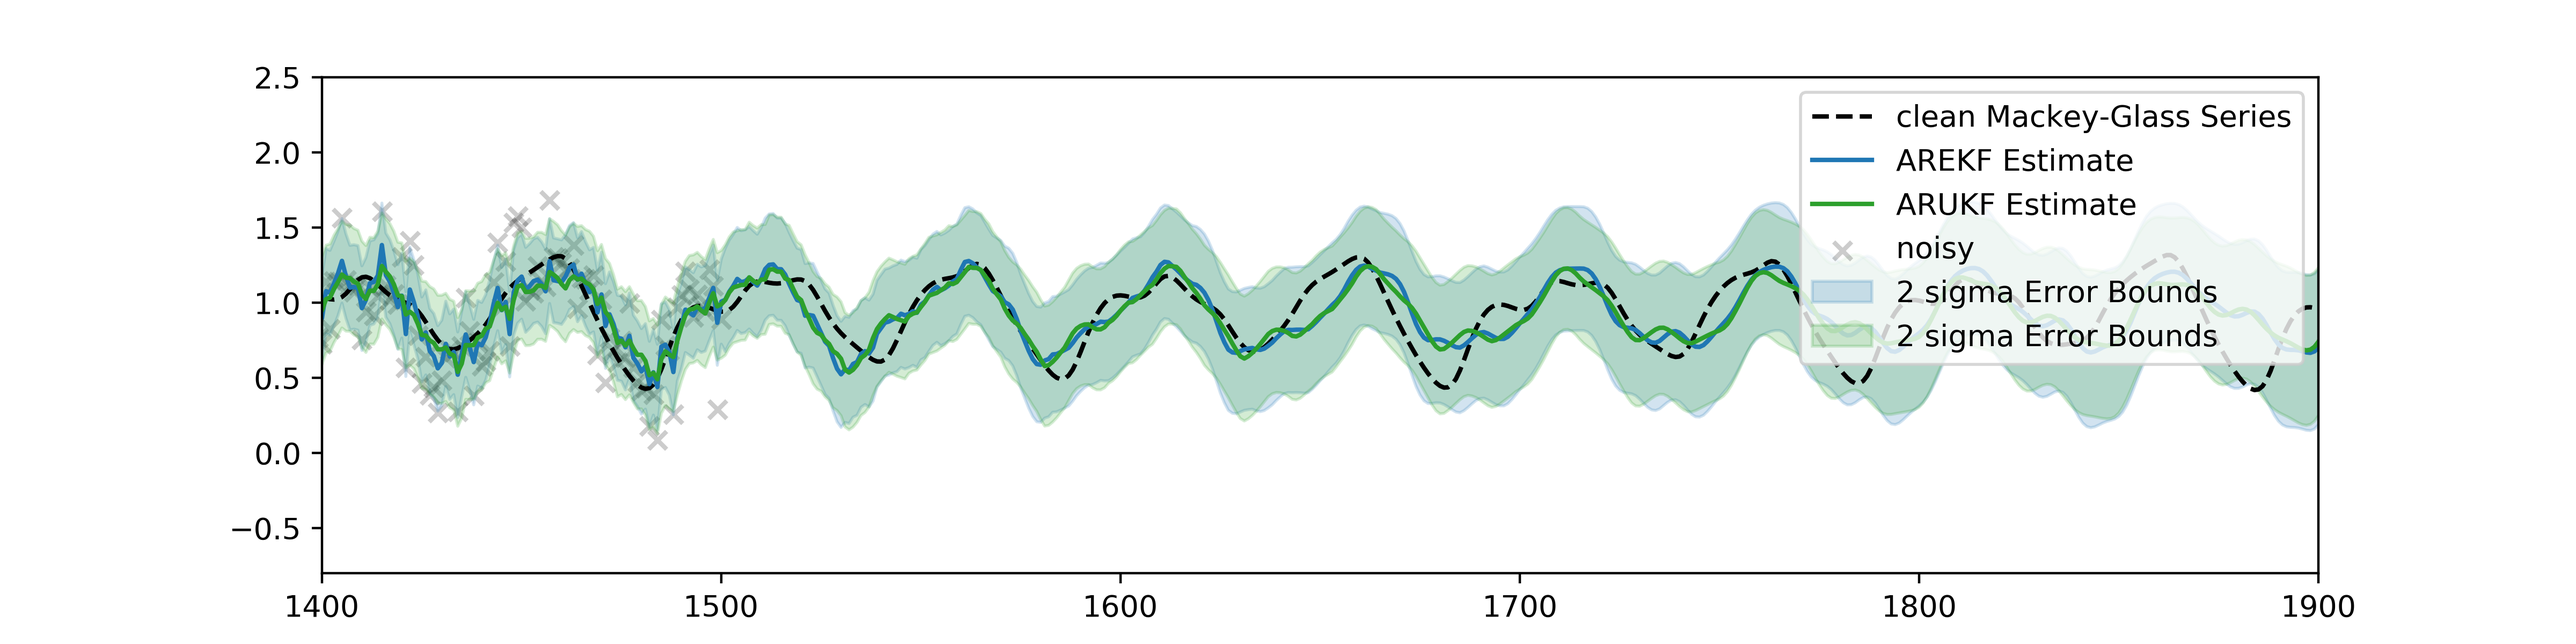
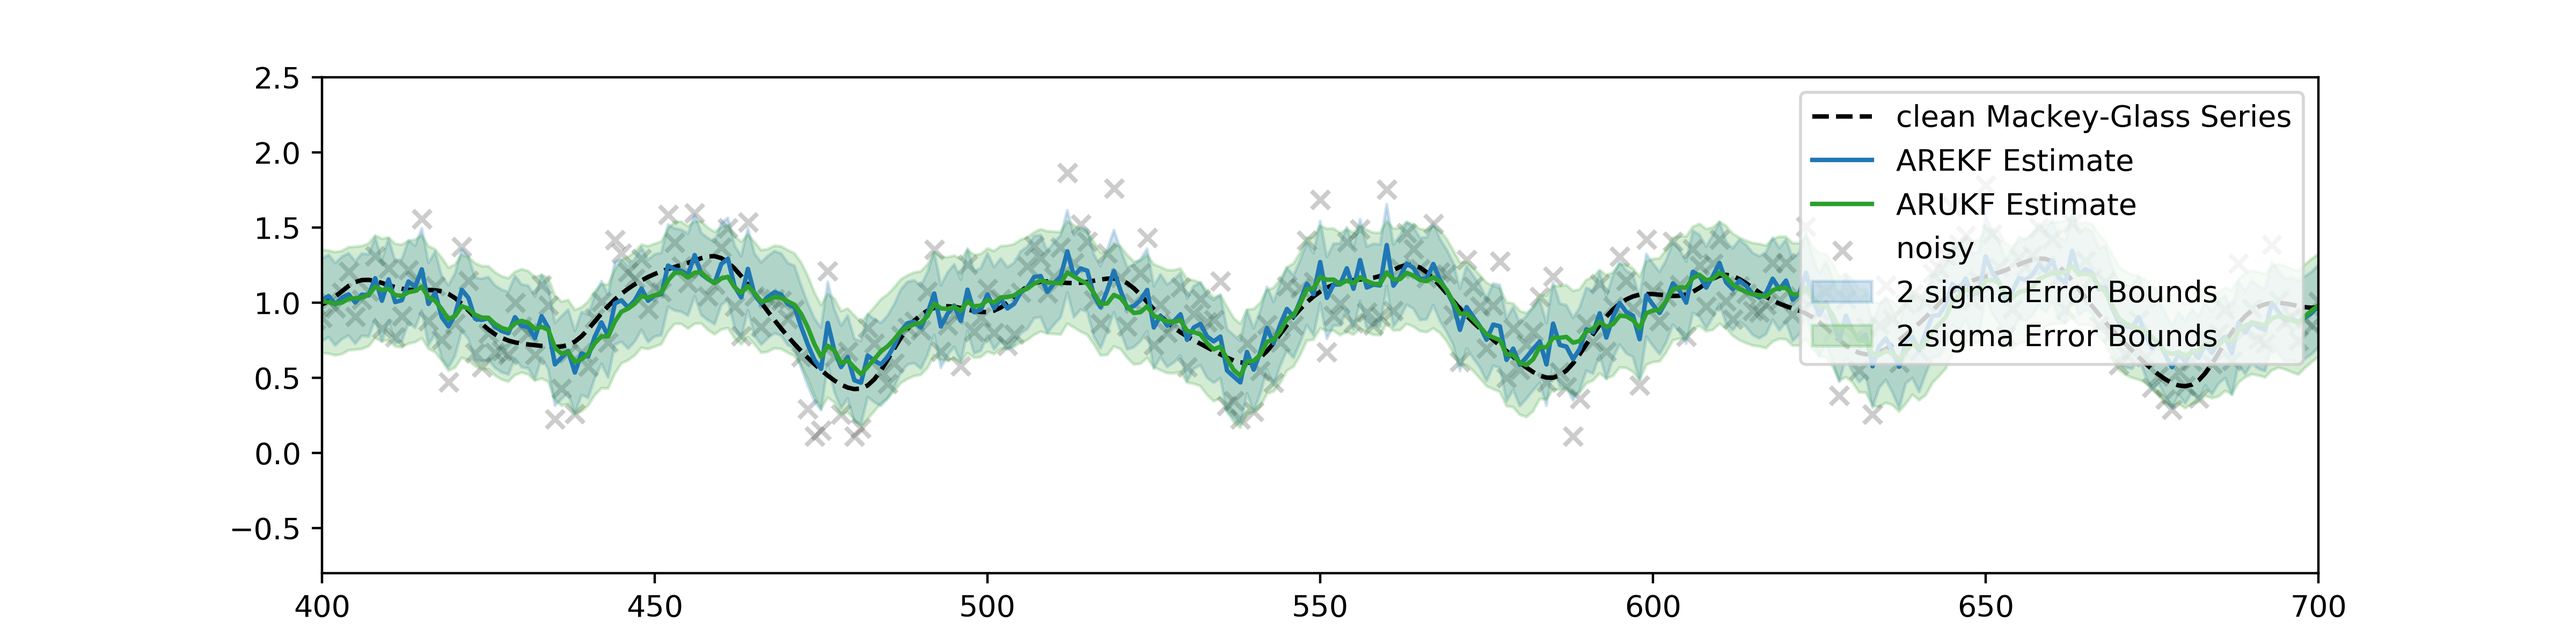
.

diff --git a/testAutoRegressiveUKF.py b/testAutoRegressiveUKF.py
@@ -61,7 +61,8 @@ ukf_est_p = np.array(ukf_est_p)
 ekf_est_x = np.array(ekf_est_x)
 ekf_est_p = np.array(ekf_est_p)
 
-plt.figure(figsize=(12,3))
+plt.figure(figsize=(12,6))
+plt.subplot(211)
 plt.plot(t,b,'k--',label='clean Mackey-Glass Series')
 plt.scatter(t, b_, c='k', marker='x', alpha=0.2, label='noisy')
 plt.plot(t,ekf_est_x,c='C0', label='AREKF Estimate')
@@ -74,9 +75,27 @@ plt.fill_between(t,
                  ukf_est_x + 2.0 * np.sqrt(ukf_est_p),
                  ukf_est_x - 2.0 * np.sqrt(ukf_est_p),
                  color='C2', alpha=0.2, label='2 sigma Error Bounds')
-plt.xlim([1400,1900])
+plt.xlim([400,700])
 plt.ylim([-0.8,2.5])
 plt.legend(loc='upper right')
-plt.savefig('Results/AutoRegressiveUKFPrediction.png',
+
+
+plt.subplot(212)
+plt.plot(t,np.square(np.array(ekf_est_x).reshape(-1) - b), c='C0', label='AREKF MSE')
+plt.plot(t,np.square(np.array(ukf_est_x).reshape(-1) - b), c='C2', label='ARUKF MSE')
+plt.fill_between(t,
+                 4.0 * np.array(ekf_est_p, dtype=np.float32),
+                 0.0,
+                 color='C0', alpha=0.2, label='2 sigma Error Bound')
+plt.legend(loc='upper right')
+plt.fill_between(t,
+                 4.0 * np.array(ukf_est_p, dtype=np.float32),
+                 0.0,
+                 color='C2', alpha=0.2, label='2 sigma Error Bound')
+plt.legend(loc='upper right')
+plt.xlim([400,700])
+
+
+plt.savefig('Results/AutoRegressiveUKF.png',
             dpi=400)
 plt.show()

diff --git a/KalmanFilters.py b/KalmanFilters.py
@@ -280,7 +280,7 @@ class AutoRegressiveUnscentedKalmanFilter:
                  num_layers = 2,
                  num_units  = 32,
                  eps        = 1e-2,
-                 alpha      = 1e-3,
+                 alpha      = 1e-2,
                  beta       = 2.0,
                  kappa      = 0.0):
 

diff --git a/README.md b/README.md
@@ -43,6 +43,10 @@ Using a model for prediction makes the future estimates more accurate as shown i
 
 #### Unscented and Extended Kalman Filters
 
+![](https://github.com/JamesUnicomb/KaFiTh/blob/master/Results/AutoRegressiveUKF.png)
+
+#### Forward Predtiction with AutoRegressive Extended and Unscented Kalman Filters
+
 We can use stochastic estimates for the gradient with an Unscented Kalman Filter. This will have payoffs in some scenarios (depending on the initial covariance of the estimate).
 
 ![](https://github.com/JamesUnicomb/KaFiTh/blob/master/Results/AutoRegressiveUKFPrediction.png)
